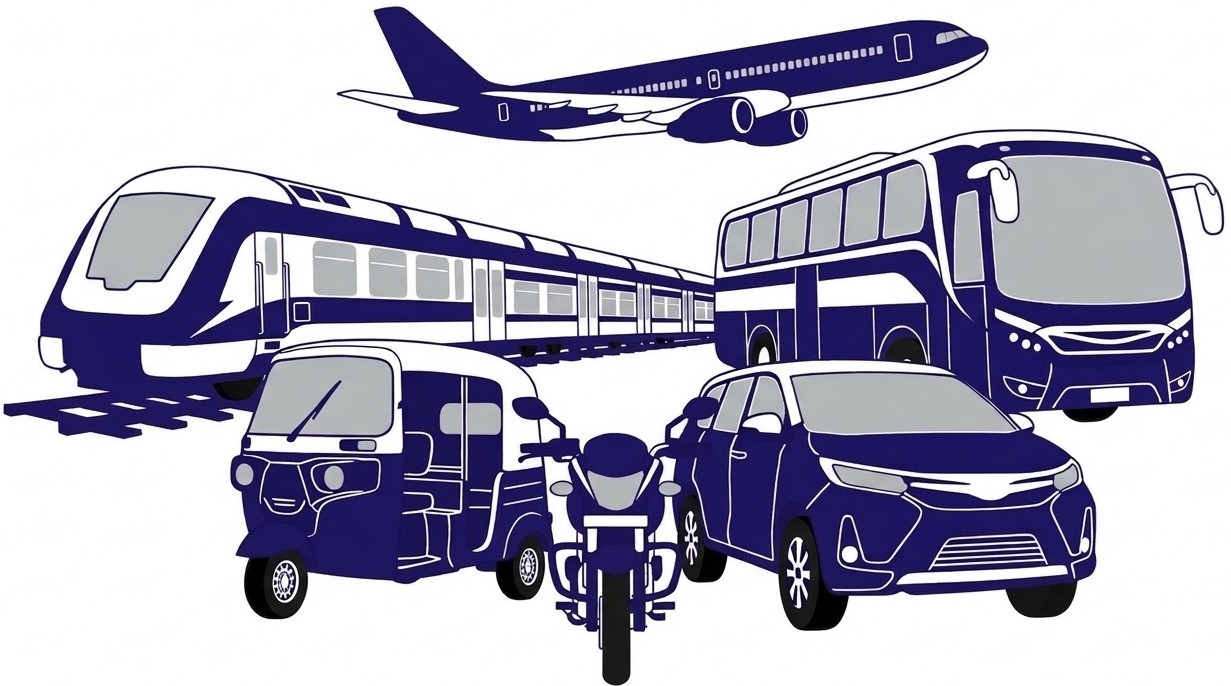
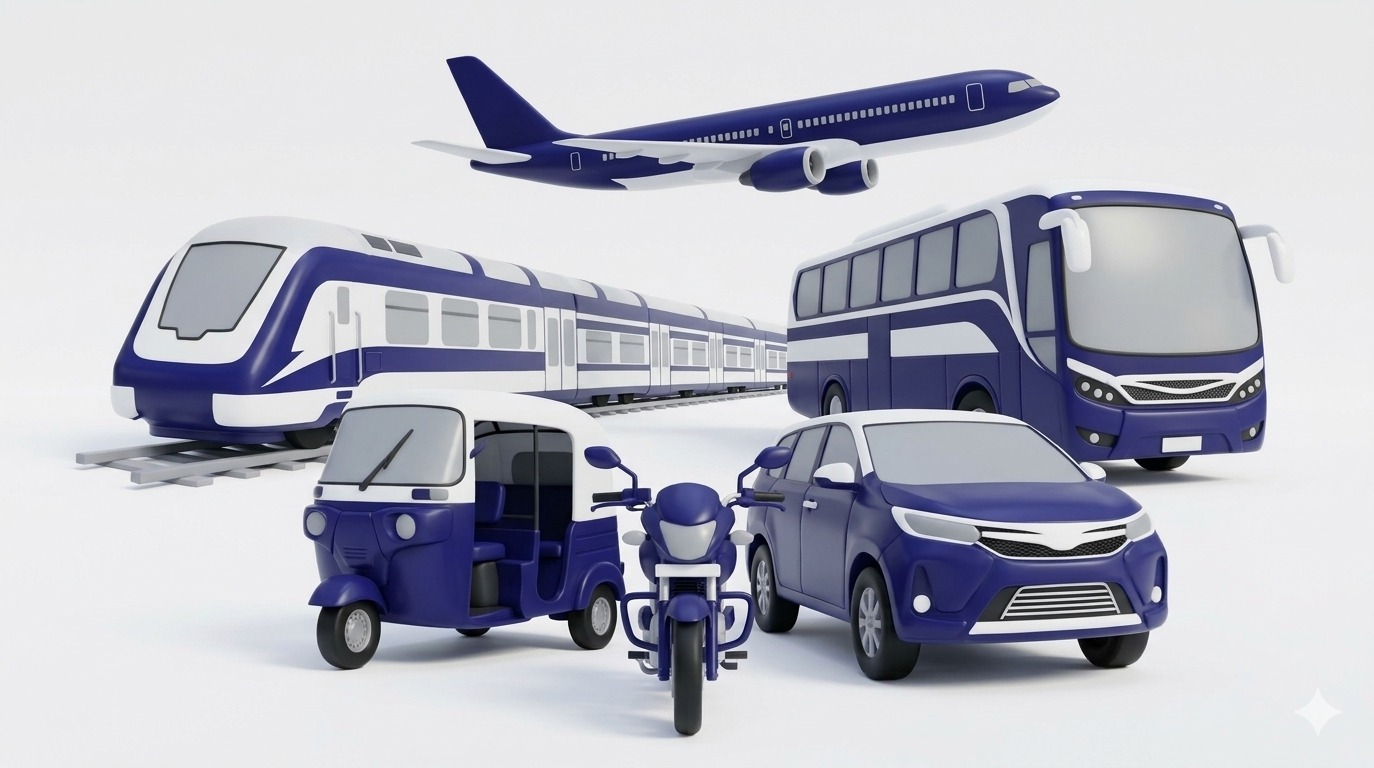
Update navbar center capsule design and adjust book-card-img padding

diff --git a/src/components/DimensionSpecs.css b/src/components/DimensionSpecs.css
@@ -43,29 +43,28 @@
 }
 
 .nav-links {
-  width: 310px !important;
+  width: auto !important;
+  min-width: 250px !important;
   height: 42px !important;
   border-radius: 9999px !important;
   display: flex !important;
   align-items: center !important;
-  justify-content: space-between !important;
-  background: #3712a6 !important;
-  /* Exact color from Image 2 */
-  border: 1.5px solid #ffffff !important;
-  /* Crisp white border */
-  padding: 4px 6px !important;
+  justify-content: center !important;
+  background: rgba(255, 255, 255, 0.12) !important;
+  border: 1px solid rgba(255, 255, 255, 0.3) !important;
+  padding: 3px 4px !important;
   box-sizing: border-box !important;
-  gap: 8px !important;
+  gap: 4px !important;
 }
 
 .nav-link {
   height: 34px !important;
-  padding: 0 16px !important;
+  padding: 0 20px !important;
   border-radius: 9999px !important;
   display: inline-flex !important;
   align-items: center !important;
   justify-content: center !important;
-  font-size: 13px !important;
+  font-size: 14px !important;
   font-weight: 600 !important;
   color: #ffffff !important;
   background: transparent !important;
@@ -77,18 +76,16 @@
 
 .nav-link:hover {
   color: #ffffff !important;
-  background: rgba(255, 255, 255, 0.12) !important;
+  background: rgba(255, 255, 255, 0.16) !important;
 }
 
 .nav-link.active {
-  background: #b59cde !important;
-  /* Exact color from Image 3 */
-  color: #000000 !important;
-  /* Bold dark text on lavender active button */
-  box-shadow: 0 2px 6px rgba(0, 0, 0, 0.15) !important;
+  background: #ffffff !important;
+  color: #1a237e !important;
+  box-shadow: 0 2px 8px rgba(0, 0, 0, 0.15) !important;
   border: none !important;
-  font-weight: 600 !important;
-  padding: 0 20px !important;
+  font-weight: 700 !important;
+  padding: 0 24px !important;
 }
 
 .nav-link span {
@@ -98,8 +95,8 @@
 }
 
 .nav-link.active span {
-  color: #000000 !important;
-  font-weight: 600 !important;
+  color: #1a237e !important;
+  font-weight: 700 !important;
   background: transparent !important;
 }
 

diff --git a/src/components/tabs/HomeTab.css b/src/components/tabs/HomeTab.css
@@ -2577,7 +2577,7 @@
 }
 
 .book-card-img {
-  padding: 10px;
+  padding: 2px;
   width: 100%;
   height: 100%;
   object-fit: fill;
